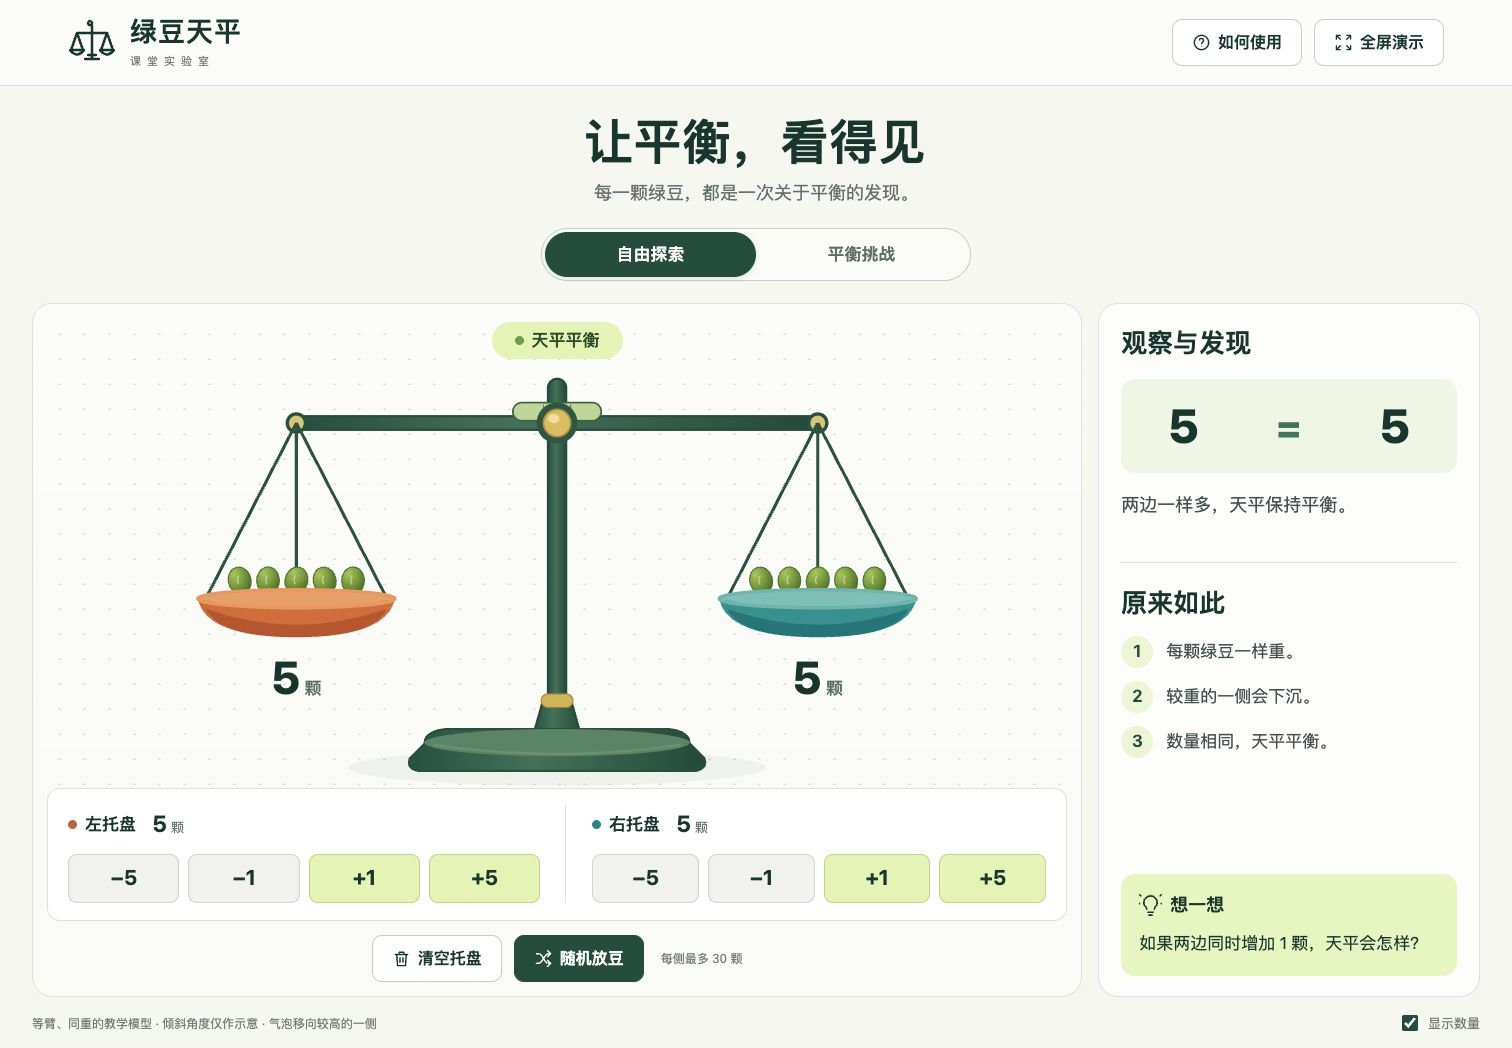
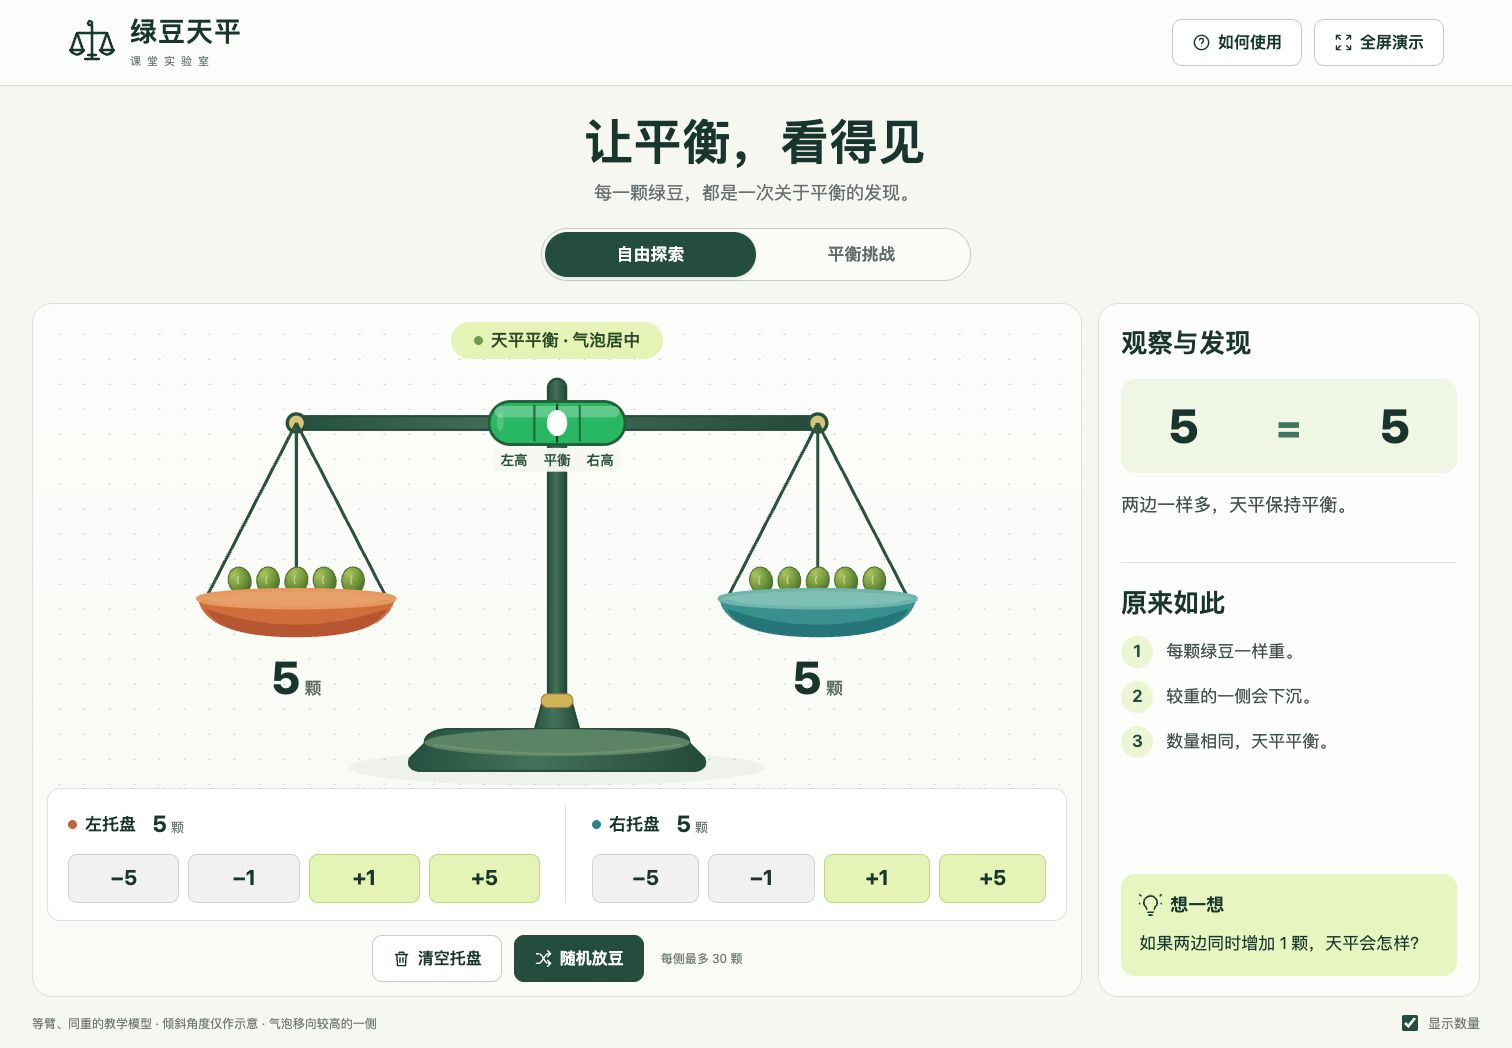
Update Site source

Changed region(s): [[0.2798, 0.3053, 0.4352, 0.458]]

diff --git a/dist/index.html b/dist/index.html
@@ -31,11 +31,21 @@
      <path d="M333 378q0-11 19-13h196q19 2 19 13l13 13q3 9-8 11H328q-11-2-8-11Z" fill="url(#metal)" stroke="#2c5945" stroke-width="2"/>
      <ellipse cx="450" cy="377" rx="117" ry="12" fill="#668e70"/><path d="M341 379q110 16 218 0" fill="none" stroke="#91af8a" opacity=".4" stroke-width="2"/>
      <g id="beam"><rect x="220" y="89" width="460" height="12" rx="6" fill="url(#metal)" stroke="#2d5745" stroke-width="2"/><circle cx="220" cy="95" r="8" fill="#dccb81" stroke="#2c5b46" stroke-width="3"/><circle cx="680" cy="95" r="8" fill="#dccb81" stroke="#2c5b46" stroke-width="3"/>
-      <g aria-hidden="true"><rect x="411" y="77" width="78" height="16" rx="8" fill="#c6daa3" stroke="#456e4d" stroke-width="1.5"/><path d="M438 79v12m24-12v12" stroke="#718b5c" stroke-width="1"/><ellipse id="air" cx="450" cy="85" rx="6" ry="5" fill="#fcfff4"/></g>
+
      </g>
      <g id="left-pan"><path d="M0 0-80 155M0 0 80 155M0 0v155" stroke="#315d49" stroke-width="2.7" fill="none"/><g id="left-beans"></g><ellipse cy="155" rx="87" ry="8" fill="#eaaa72"/><path d="M-87 155q7 34 87 34t87-34q-87 19-174 0Z" fill="#d57945"/><path d="M-80 164q80 28 160 0-12 25-80 25t-80-25" fill="#bd6138"/><ellipse cy="155" rx="87" ry="8" fill="none" stroke="#eaa36b" stroke-width="3"/><text id="left-pan-count" class="pan-count" y="239" text-anchor="middle">5<tspan class="pan-unit"> 颗</tspan></text></g>
      <g id="right-pan"><path d="M0 0-80 155M0 0 80 155M0 0v155" stroke="#315d49" stroke-width="2.7" fill="none"/><g id="right-beans"></g><ellipse cy="155" rx="87" ry="8" fill="#8bc6be"/><path d="M-87 155q7 34 87 34t87-34q-87 19-174 0Z" fill="#409b9a"/><path d="M-80 164q80 28 160 0-12 25-80 25t-80-25" fill="#2b8184"/><ellipse cy="155" rx="87" ry="8" fill="none" stroke="#7abdb7" stroke-width="3"/><text id="right-pan-count" class="pan-count" y="239" text-anchor="middle">5<tspan class="pan-unit"> 颗</tspan></text></g>
      <circle cx="450" cy="95" r="18" fill="#35614a"/><circle cx="450" cy="95" r="12" fill="#dfc56e" stroke="#b59d4f" stroke-width="1.5"/><ellipse cx="447" cy="91" rx="5" ry="4" fill="#f4e3a3"/>
+     <g id="level" role="img" aria-label="平衡气泡：居中，天平平衡">
+      <title id="level-title">平衡气泡：居中，天平平衡</title>
+      <rect x="390" y="76" width="120" height="38" rx="19" fill="#2fbf6f" stroke="#226b3e" stroke-width="2.5"/>
+      <rect x="395" y="80" width="110" height="10" rx="5" fill="#fff" opacity=".27"/>
+      <path d="M430 79v32m40-32v32" stroke="#17613b" stroke-width="1.8" opacity=".8"/>
+      <path d="M450 78v7m0 20v7" stroke="#124d30" stroke-width="2"/>
+      <ellipse id="air" cx="450" cy="95" rx="8.5" ry="11" fill="#fff" stroke="#effff3" stroke-width="1.2"/>
+      <ellipse cx="400" cy="94" rx="3" ry="8" fill="#fff" opacity=".18"/>
+      <rect x="394" y="117" width="112" height="21" rx="5" fill="#f7f8f2" opacity=".96"/><g fill="#315c43" font-size="12" text-anchor="middle" font-weight="650"><text x="412" y="132">左高</text><text x="450" y="132">平衡</text><text x="488" y="132">右高</text></g>
+     </g>
     </svg>
    </div>
    <div class="controls">
@@ -48,18 +58,18 @@
  </div>
  <footer class="lesson-footer"><span>等臂、同重的教学模型 · 倾斜角度仅作示意 · 气泡移向较高的一侧</span><label class="count-toggle"><input id="show-counts" type="checkbox" checked>显示数量</label></footer>
 </main>
-<dialog id="help-dialog" aria-labelledby="help-title"><button class="close" id="close-help" aria-label="关闭帮助">×</button><h2 id="help-title">把课堂变成小小实验室</h2><ol><li><strong>自由探索：</strong>点击 +1、+5 放豆，点击 −1、−5 取豆。也可以点击托盘放入一颗。</li><li><strong>先猜再做：</strong>用“随机放豆”布置实验；取消“显示数量”，让同学先观察、数豆和预测。</li><li><strong>平衡挑战：</strong>左盘固定，只调整右盘。完成后点击“检查答案”，再换一题。</li></ol><p><strong>键盘操作：</strong><kbd>A</kbd> 左边 +1，<kbd>Z</kbd> 左边 −1；<kbd>K</kbd> 右边 +1，<kbd>M</kbd> 右边 −1。按住 <kbd>Shift</kbd> 每次改变 5 颗。</p><p class="dialog-note">这是等臂天平的数量比较模型，假设每颗绿豆一样重。倾斜角度用于展示差异，不对应真实角度。横梁上的气泡向高处移动；它是辅助观察标记，并非所有真实托盘天平都有的装置。</p><button class="btn primary" id="start">开始实验</button></dialog>
+<dialog id="help-dialog" aria-labelledby="help-title"><button class="close" id="close-help" aria-label="关闭帮助">×</button><h2 id="help-title">把课堂变成小小实验室</h2><ol><li><strong>自由探索：</strong>点击 +1、+5 放豆，点击 −1、−5 取豆。也可以点击托盘放入一颗。</li><li><strong>先猜再做：</strong>用“随机放豆”布置实验；取消“显示数量”，让同学先观察、数豆和预测。</li><li><strong>平衡挑战：</strong>左盘固定，只调整右盘。完成后点击“检查答案”，再换一题。</li></ol><p><strong>键盘操作：</strong><kbd>A</kbd> 左边 +1，<kbd>Z</kbd> 左边 −1；<kbd>K</kbd> 右边 +1，<kbd>M</kbd> 右边 −1。按住 <kbd>Shift</kbd> 每次改变 5 颗。</p><p class="dialog-note">这是等臂天平的数量比较模型，假设每颗绿豆一样重。倾斜角度用于展示差异，不对应真实角度。绿色气泡管分成左、中、右三格：白色气泡在中心刻线时表示平衡；向左表示左侧较高、右盘下沉；向右表示右侧较高、左盘下沉。气泡与横梁同步运动，偏移程度经过放大以便观察；这是辅助标记，并非所有真实托盘天平都有的装置。</p><button class="btn primary" id="start">开始实验</button></dialog>
 <div class="toast" id="toast" role="status" hidden></div>
 <script>
 (()=>{'use strict';
 const $=id=>document.getElementById(id), NS='http://www.w3.org/2000/svg', MAX=30;
 const state={left:5,right:5,mode:'explore',show:true,round:0,checked:false};let freeState={left:5,right:5};
 let angle=0,targetAngle=0,frame=0,toastTimer=0;const reduced=matchMedia('(prefers-reduced-motion: reduce)');
-function place(){const rad=angle*Math.PI/180;$('beam').setAttribute('transform',`rotate(${angle} 450 95)`);['left','right'].forEach(side=>{const dx=side==='left'?-230:230;const x=450+dx*Math.cos(rad),y=95+dx*Math.sin(rad);$(side+'-pan').setAttribute('transform',`translate(${x} ${y})`)});$('air').setAttribute('cx',450-Math.sign(targetAngle)*24)}
+function place(){const rad=angle*Math.PI/180;$('beam').setAttribute('transform',`rotate(${angle} 450 95)`);['left','right'].forEach(side=>{const dx=side==='left'?-230:230;const x=450+dx*Math.cos(rad),y=95+dx*Math.sin(rad);$(side+'-pan').setAttribute('transform',`translate(${x} ${y})`)});$('level').setAttribute('transform',`rotate(${angle} 450 95)`);$('air').setAttribute('cx',450-36*Math.tanh(angle*1.5))}
 function animate(){frame=0;angle+=(targetAngle-angle)*.17;if(Math.abs(targetAngle-angle)<.02)angle=targetAngle;place();if(angle!==targetAngle)frame=requestAnimationFrame(animate)}
 function tilt(){targetAngle=Math.max(-10,Math.min(10,(state.right-state.left)*1.2));if(reduced.matches){cancelAnimationFrame(frame);frame=0;angle=targetAngle;place()}else if(!frame)frame=requestAnimationFrame(animate)}
 function drawBeans(side){const wrap=$(side+'-beans');wrap.replaceChildren();const n=state[side];for(let i=0;i<n;i++){const row=Math.floor(i/10),col=i%10,items=Math.min(10,n-row*10);const x=(col-(items-1)/2)*(items<=6?25:16.5),y=139-row*21;const group=document.createElementNS(NS,'g');group.setAttribute('data-bean','');const bean=document.createElementNS(NS,'ellipse');bean.setAttribute('cx',x);bean.setAttribute('cy',y);bean.setAttribute('rx','10');bean.setAttribute('ry','12');bean.setAttribute('class','bean');bean.setAttribute('transform',`rotate(${(i%3-1)*14} ${x} ${y})`);const seam=document.createElementNS(NS,'path');seam.setAttribute('d',`M${x-1} ${y-4}q-2 4 0 7`);seam.setAttribute('class','bean-seam');group.append(bean,seam);wrap.append(group)}}
-function render(){const diff=state.left-state.right,balanced=diff===0,side=diff>0?'left':'right',word=diff>0?'左':'右';$('status').textContent=balanced?'天平平衡':`${word}边较重`;$('status').dataset.tone=balanced?'balanced':side;
+function render(){const diff=state.left-state.right,balanced=diff===0,side=diff>0?'left':'right',word=diff>0?'左':'右';const levelText=balanced?'居中，天平平衡':diff>0?'偏右，右侧较高，左盘下沉':'偏左，左侧较高，右盘下沉';$('status').textContent=balanced?'天平平衡 · 气泡居中':`${word}边较重 · 气泡偏${diff>0?'右':'左'}`;$('level').setAttribute('aria-label','平衡气泡：'+levelText);$('level-title').textContent='平衡气泡：'+levelText;$('status').dataset.tone=balanced?'balanced':side;
 ['left','right'].forEach(s=>{$(s+'-count').textContent=state.show?state[s]:'?';$(s+'-pan-count').replaceChildren(document.createTextNode(state.show?state[s]:'?'));const unit=document.createElementNS(NS,'tspan');unit.setAttribute('class','pan-unit');unit.textContent=' 颗';$(s+'-pan-count').append(unit);$('eq-'+s).textContent=state.show?state[s]:'?';drawBeans(s)});
 $('operator').textContent=balanced?'=':diff>0?'>':'<';$('explanation').textContent=balanced?(state.left===0?'两边都是空盘，天平保持平衡。':'两边一样多，天平保持平衡。'):(state.show?`${word}边多 ${Math.abs(diff)} 颗，${word}托盘下沉。`:`${word}边较重，${word}托盘下沉。数一数，两边差几颗？`);
 $('balance').setAttribute('aria-label',state.show?`左盘 ${state.left} 颗，右盘 ${state.right} 颗，${$('status').textContent}`:`数量已隐藏，${$('status').textContent}`);

diff --git a/docs/verification.md b/docs/verification.md
@@ -47,3 +47,16 @@
 本页使用等臂、同重假设，数量差对应限幅的倾斜示意，不模拟真实天平角度。应用无持久化学生数据、外部资源、广告或统计代码；刷新恢复初始实验。
 
 已提供 ESA 配置但未进行阿里云登录或部署。Sites 私人预览的部署状态以工具最终返回为准，不等于 ESA 发布成功。
+
+## 气泡组件修订（按用户红框参考）
+
+保留独立绿色气泡管，放大为 SVG 120×38；左、中、右三格及中心刻线清晰可见。将组件移动到最前层，修复原先被支点遮挡的问题，增加“左高／平衡／右高”位置标识。偏移使用当前动画角度计算，与横梁采用完全相同的旋转变换；为便于课堂看清，气泡偏移作非线性放大，不表示测量精度。
+
+IAB 实测：
+
+- 5:5：气泡 cx=450，居中，绿色管在 SVG 最前层。
+- 6:5：横梁与气泡管均旋转 −1.2°，气泡 cx≈484.085，偏右，左盘下沉。
+- 6:10：横梁与气泡管均旋转 4.8°，气泡 cx≈414.000，偏左，右盘下沉。
+- 复位后气泡回到 cx=450；390px 页面无横向溢出。
+
+最终截图已更新；`bubble-right-heavy.jpg` 与 `bubble-left-heavy.jpg` 展示两侧较重时的对应关系。已用 view_image 检查最终整页与气泡状态截图。相对于初始设计图，鲜绿色三格气泡管及位置文字为用户明确要求的设计变更。

diff --git a/docs/design.md b/docs/design.md
@@ -11,3 +11,7 @@
 ## 图像生成来源
 
 概念图采用内置 Image Gen 工具生成，输出保存为 `docs/design-concept.png`。实际网页不引用该位图。提示词要点：完整中文课堂实验工具界面，1512×1048 参考尺寸，品牌“绿豆天平 / 课堂实验室”，标题“让平衡，看得见”；象牙白、森林绿、青柠、陶橙和青绿；左侧矢量天平、五颗对五颗、四个加减按钮，右侧观察比较、三条规则和思考题，双模式与全屏帮助。所有文字和控件保留原生 HTML，图形可交互、可缩放，无营销模块、人物或照片。
+
+## 用户指定气泡组件
+
+后续按用户红框参考，将气泡管恢复为鲜绿色、有左中右三格和白色气泡的独立组件，并始终置于最前层。气泡居中表示平衡；偏左对应左高右低，偏右对应右高左低。组件、横梁在每帧保持同角度。此项以用户指定参考覆盖初始概念图中较小的浅色指示器。
